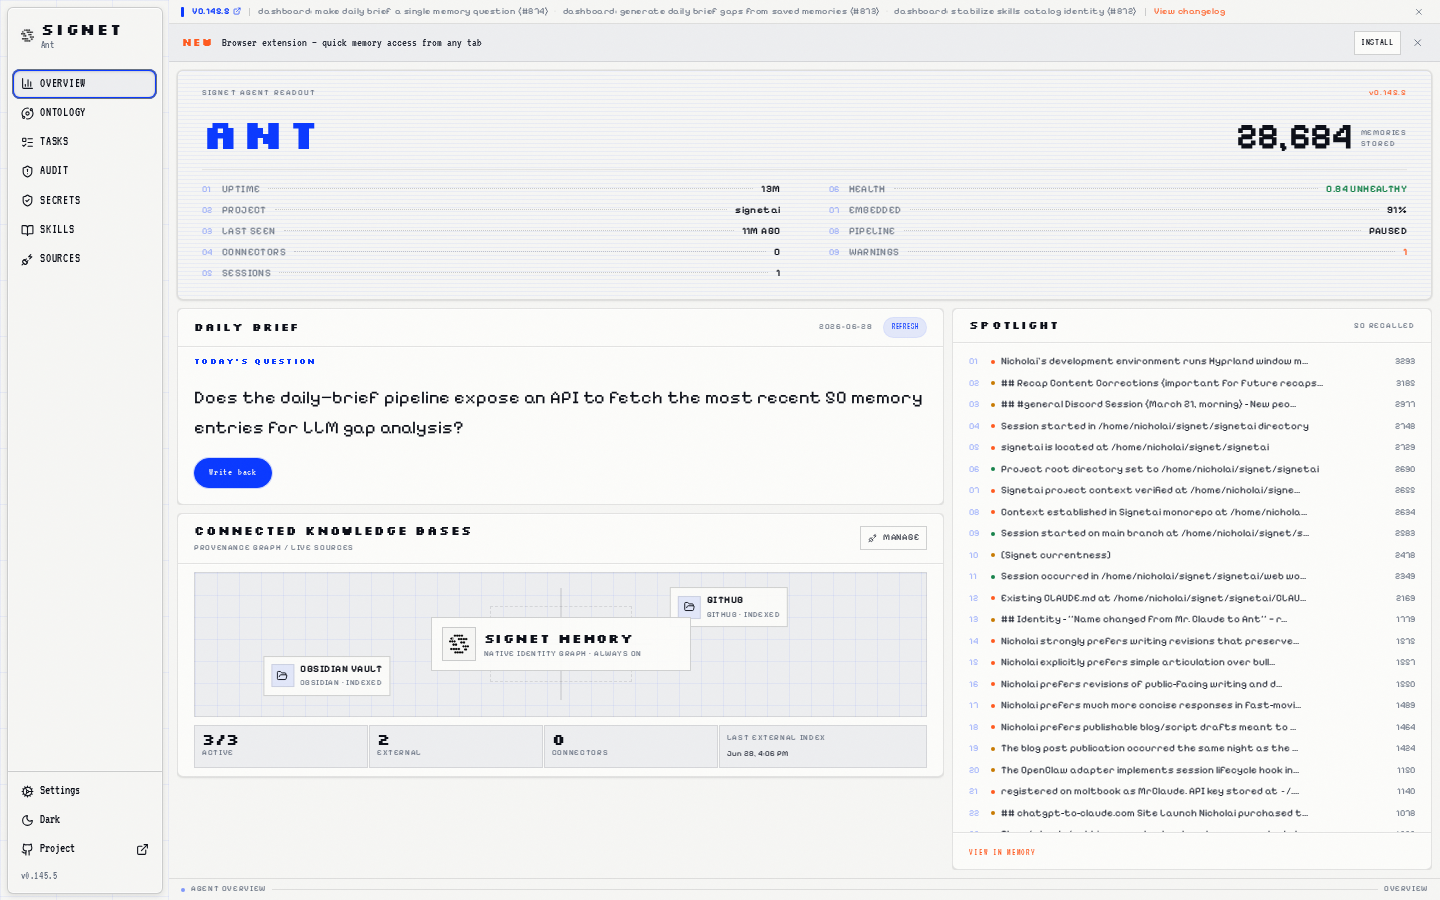
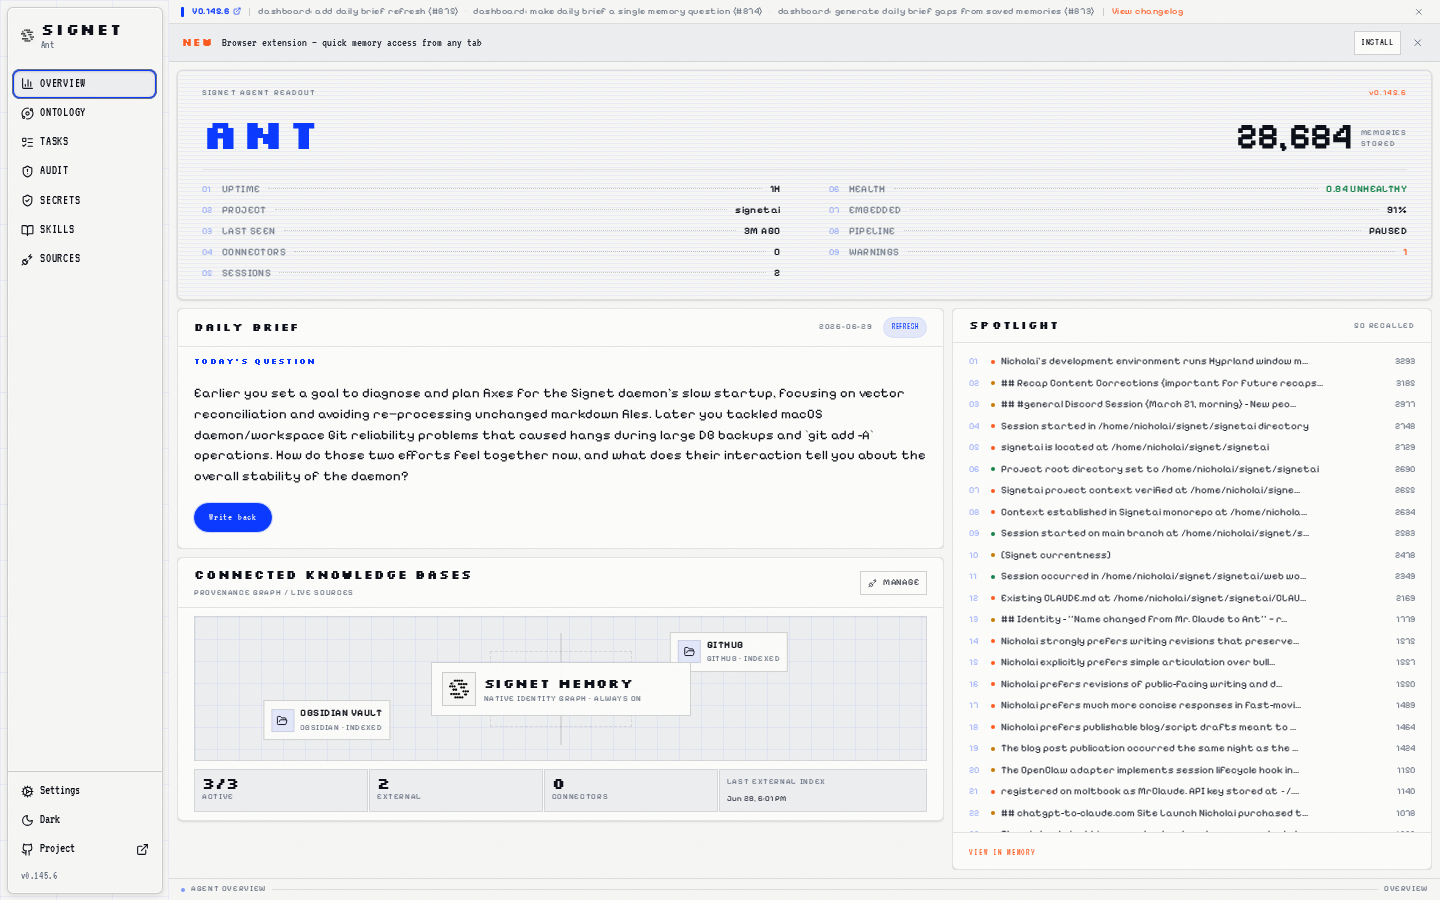
fix(dashboard): align daily brief typography (#876)

Pull request: fix(dashboard): align daily brief typography
## Summary

- Bring the Daily Brief question text back in line with the dashboard’s existing typography scale.
- Keep the question styling bright but remove the oversized responsive font treatment.
- Refresh the PR screenshot to show the adjusted card in the real dashboard.

## Screenshot

![Daily Brief refresh button](https://raw.githubusercontent.com/Signet-AI/signetai/NicholaiVogel/daily-brief-font-match/docs/assets/pr/daily-brief-refresh.png)

## Validation

- `bun test platform/daemon/src/pipeline/reflection-worker.test.ts platform/daemon/src/routes/reflection-routes.test.ts`
- `autoreview` clean

diff --git a/surfaces/dashboard/src/lib/components/home/DailyReflection.svelte b/surfaces/dashboard/src/lib/components/home/DailyReflection.svelte
@@ -335,8 +335,8 @@ async function handleAnswer(item: DailyReflection): Promise<void> {
 	}
 
 	.reflection-item--question .reflection-summary {
-		font-size: clamp(15px, 1.55vw, 18px);
-		line-height: 1.65;
+		font-size: 13px;
+		line-height: 1.6;
 		color: var(--sig-text-bright);
 	}
 